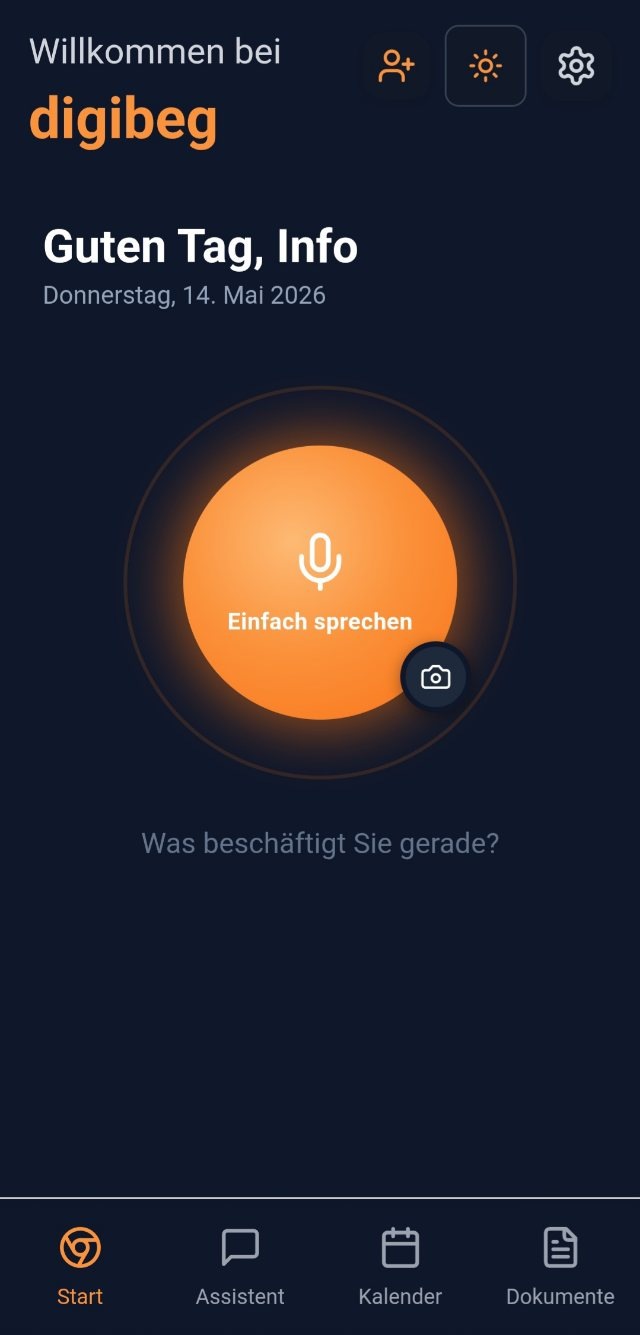
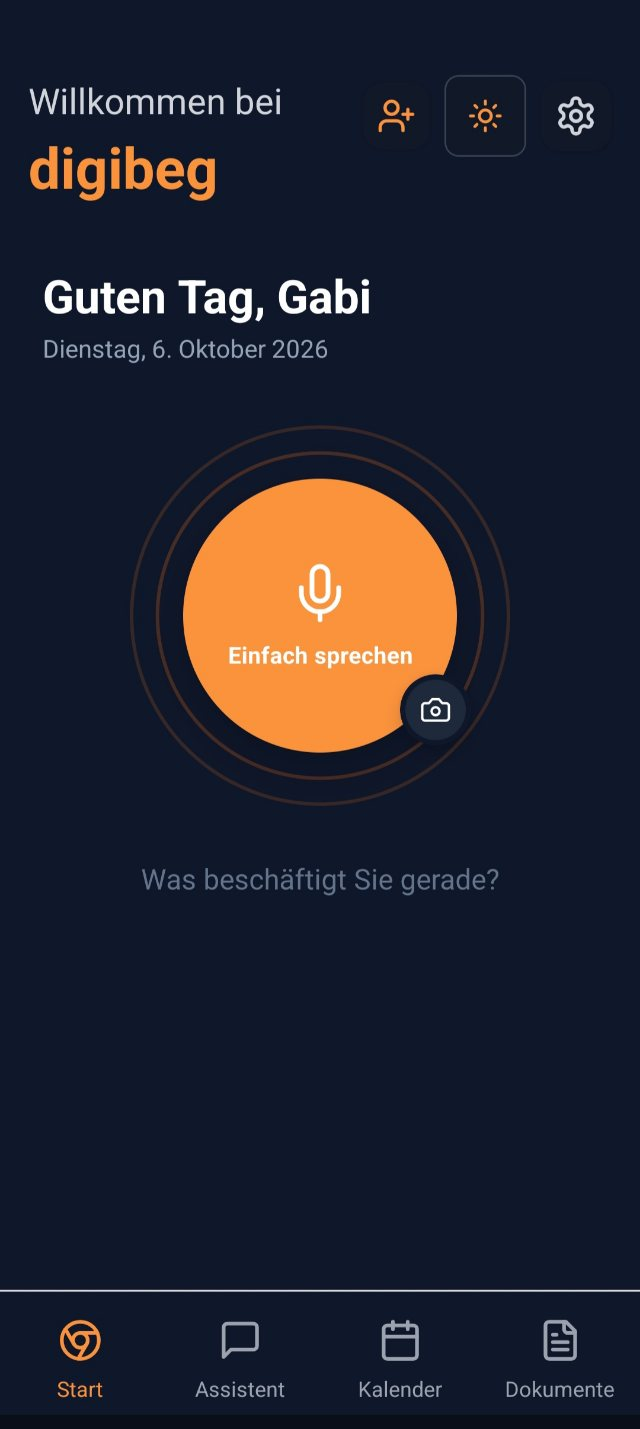
Hero-Screenshot ersetzt: "Guten Tag, Gabi" statt "Guten Tag, Info"
Neues Original screenshots/mobile-13.jpg, daraus optimierte
640px-Varianten (WebP 27 KB, JPEG 50 KB); Hoehenattribut angepasst.
Altes Original mobile-4.jpg bleibt im Repo.

diff --git a/index-en.html b/index-en.html
@@ -197,7 +197,7 @@
               <div class="phone__screen">
                 <picture>
                   <source srcset="assets/screens/hero-easy-mode-640.webp" type="image/webp" />
-                  <img src="assets/screens/hero-easy-mode-640.jpg" alt="" width="640" height="1335" fetchpriority="high" />
+                  <img src="assets/screens/hero-easy-mode-640.jpg" alt="" width="640" height="1429" fetchpriority="high" />
                 </picture>
               </div>
             </div>

diff --git a/index.html b/index.html
@@ -197,7 +197,7 @@
               <div class="phone__screen">
                 <picture>
                   <source srcset="assets/screens/hero-easy-mode-640.webp" type="image/webp" />
-                  <img src="assets/screens/hero-easy-mode-640.jpg" alt="" width="640" height="1335" fetchpriority="high" />
+                  <img src="assets/screens/hero-easy-mode-640.jpg" alt="" width="640" height="1429" fetchpriority="high" />
                 </picture>
               </div>
             </div>
